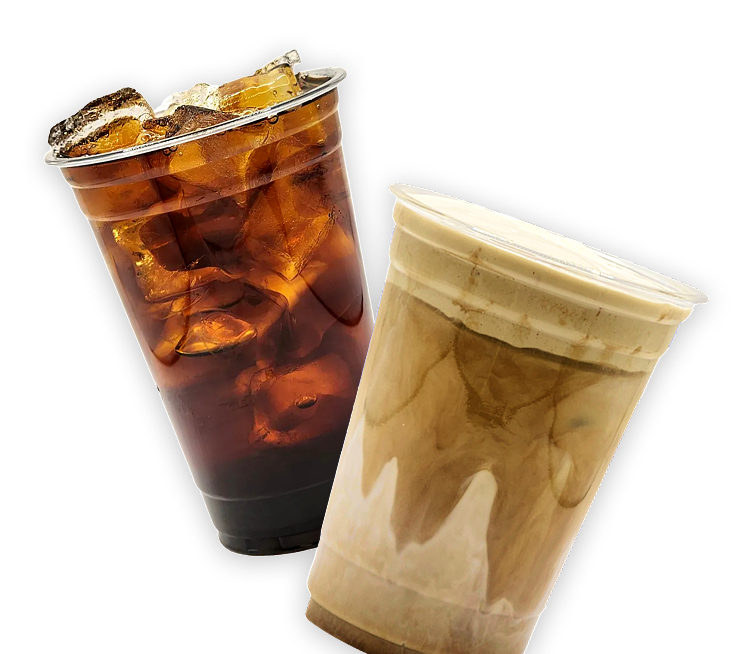
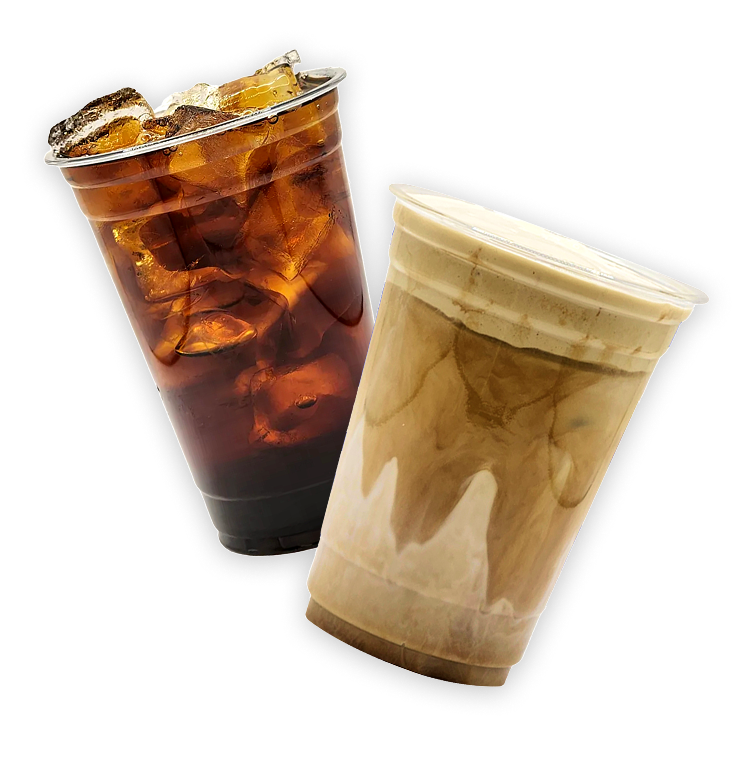
ss

diff --git a/css/main.css b/css/main.css
@@ -379,12 +379,12 @@ form {
 
    .rotate-wrap {
       bottom: 0;
-      transform: translate(-50%, 25%);
+      transform: translate(-50%, 50%);
    }
 
    .coffee-wrap {
       bottom: 0;
-      transform: translate(-50%, 10%);
+      transform: translate(-50%, 50%);
    }
 
    .main-btm {
